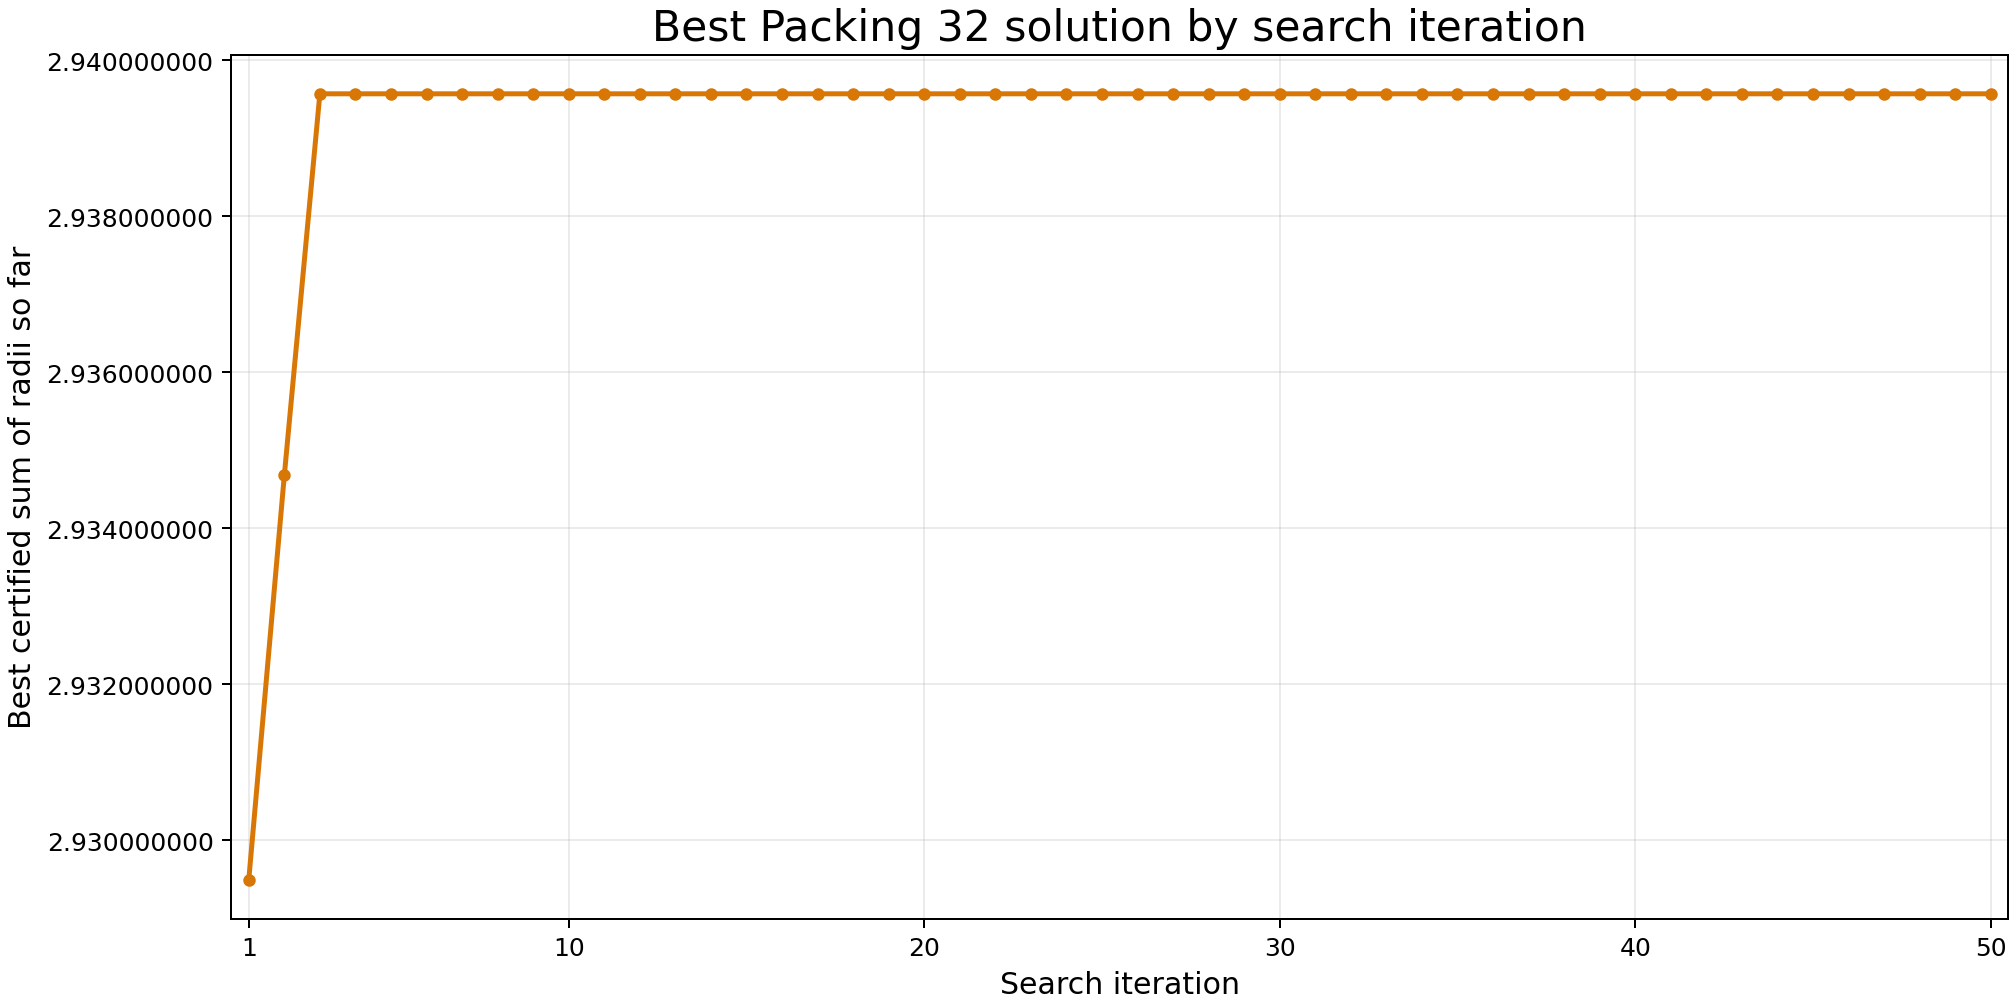
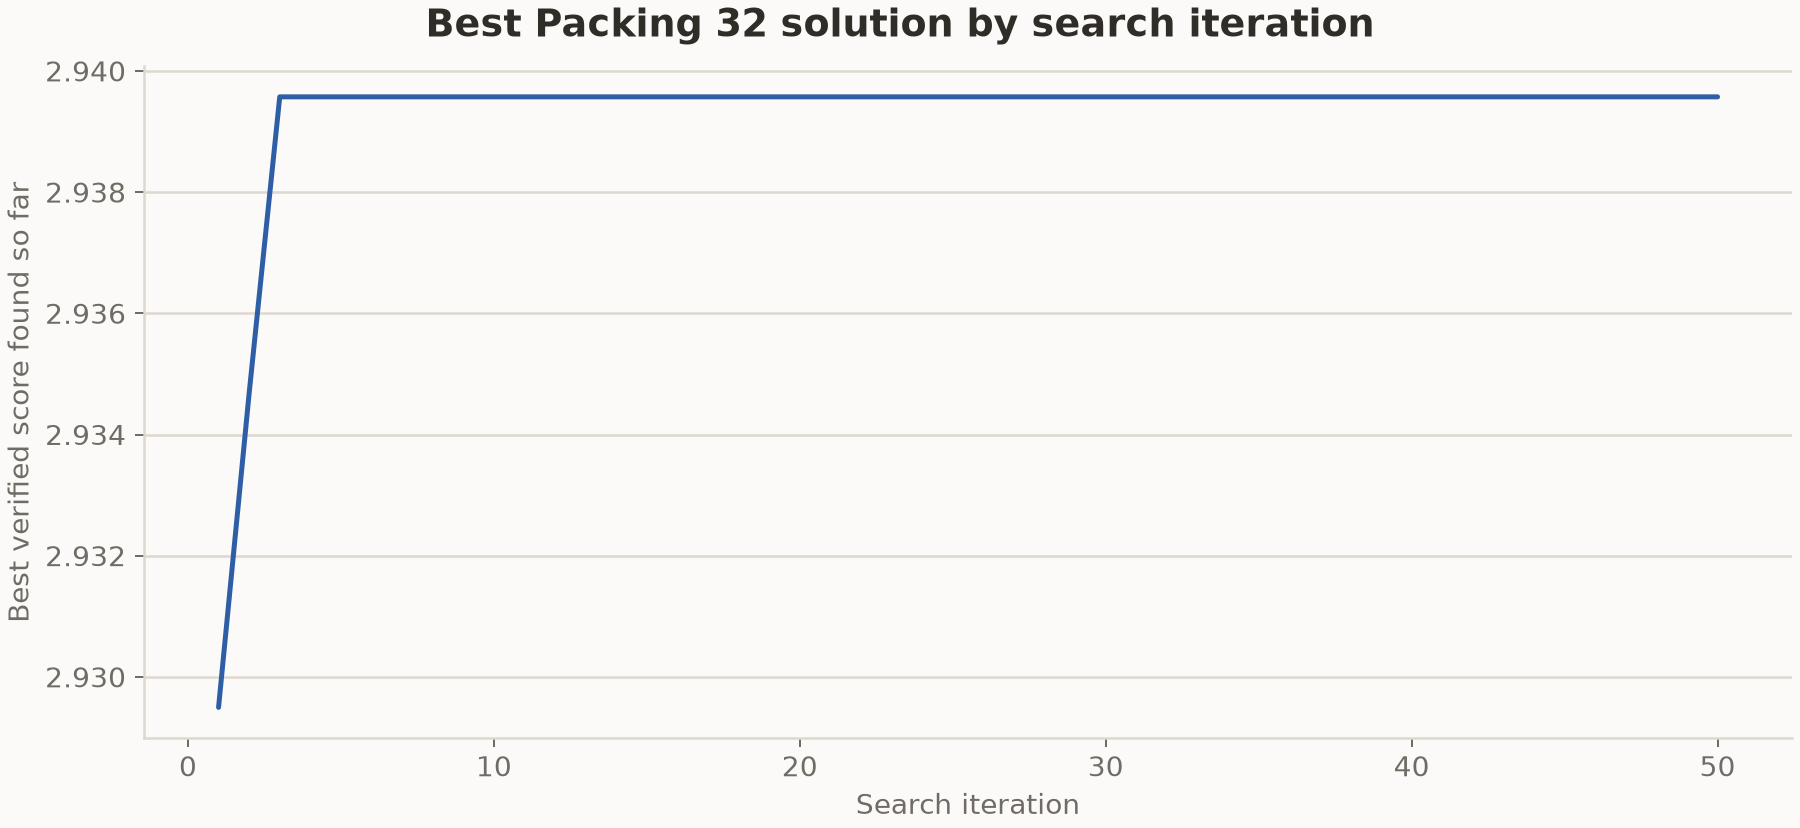
results: one figure style, shared with the docs site
Every stored curve across the tttd, sao, and openclawrl results now uses one
matplotlib style drawn from the docs theme: the card surface (#fbfaf8, where
the site puts its diagrams), the warm ink/muted/border neutrals, hairline
y-grid without top and right spines, and the brand red / blue / green series
order (chroma raised from the site's syntax inks until the palette passes a
CVD and contrast validation). Dense lines drop their per-point markers, and
reference lines (base rate, sessions-to-adaptation) are muted dashes.

The style lives in the two in-repo plotting scripts (the tttd formal dir's
plot_results.py, which now also draws the combined and per-task best-solution
histories, and openclawrl's learning_curve.py); the sao and erdos figures are
replotted from their stored or archived data.

recipes/sao results also drop smoke-2026-08-30/: nothing referenced it, and
the README already positions the example itself as the functional smoke.

Changed region(s): [[0.0, 0.0, 1.0, 0.9662], [0.4667, 0.9662, 0.6222, 0.9964]]

diff --git a/recipes/tttd/examples/tttd/results/formal-8x64-v3-packing/plot_results.py b/recipes/tttd/examples/tttd/results/formal-8x64-v3-packing/plot_results.py
@@ -9,13 +9,47 @@ import math
 from pathlib import Path
 
 import matplotlib.pyplot as plt
+from matplotlib.colors import LinearSegmentedColormap
 from matplotlib.patches import Circle, Rectangle
 
-
 ROOT = Path(__file__).resolve().parent
-COLORS = {"packing26": "#2563a6", "packing32": "#d97706"}
-LABELS = {"packing26": "Packing 26", "packing32": "Packing 32"}
 TOLERANCE = 1e-12
+
+# Figure style shared with the docs site (paper surface, warm ink, hairline
+# grid, and the site's brand red / blue / green as the fixed series order).
+PAPER = "#fbfaf8"
+INK = "#302c28"
+MUTED = "#716b65"
+HAIRLINE = "#ddd8d0"
+BRAND, BLUE, GREEN = "#a03729", "#2e5fa6", "#3f7d44"
+STYLE = {
+    "figure.facecolor": PAPER,
+    "savefig.facecolor": PAPER,
+    "axes.facecolor": PAPER,
+    "text.color": INK,
+    "axes.titlecolor": INK,
+    "axes.titleweight": "normal",
+    "axes.labelcolor": MUTED,
+    "xtick.color": MUTED,
+    "ytick.color": MUTED,
+    "axes.edgecolor": HAIRLINE,
+    "axes.linewidth": 1.0,
+    "axes.spines.top": False,
+    "axes.spines.right": False,
+    "axes.grid": True,
+    "axes.grid.axis": "y",
+    "grid.color": HAIRLINE,
+    "grid.linewidth": 1.0,
+    "axes.axisbelow": True,
+    "lines.linewidth": 2.0,
+    "lines.solid_capstyle": "round",
+    "legend.frameon": False,
+    "legend.labelcolor": INK,
+    "font.size": 11,
+}
+COLORS = {"packing26": BRAND, "packing32": BLUE}
+LABELS = {"packing26": "Packing 26", "packing32": "Packing 32"}
+RADIUS_RAMP = LinearSegmentedColormap.from_list("brand", ["#f2e0dc", BRAND])
 
 
 def read_numeric_csv(path: Path):
@@ -62,29 +96,30 @@ def plot_packings():
     figure, axes = plt.subplots(1, 2, figsize=(11.2, 5.6), constrained_layout=True)
     for index, task in enumerate(("packing26", "packing32")):
         axis = axes[index]
+        axis.grid(False)
         circles = read_circles(task)
         radii = [row["radius"] for row in circles]
         minimum, maximum = min(radii), max(radii)
         scale = maximum - minimum or 1
         for row in circles:
-            shade = 0.18 + 0.64 * (row["radius"] - minimum) / scale
+            shade = 0.15 + 0.75 * (row["radius"] - minimum) / scale
             axis.add_patch(
                 Circle(
                     (row["x"], row["y"]),
                     row["radius"],
-                    facecolor=plt.cm.Blues(shade),
-                    edgecolor="#16324f",
-                    linewidth=0.7,
+                    facecolor=RADIUS_RAMP(shade),
+                    edgecolor=PAPER,
+                    linewidth=1.0,
                 )
             )
-        axis.add_patch(Rectangle((0, 0), 1, 1, fill=False, edgecolor="#202020", linewidth=1.2))
+        axis.add_patch(Rectangle((0, 0), 1, 1, fill=False, edgecolor=MUTED, linewidth=1.2))
         axis.set(xlim=(-0.02, 1.02), ylim=(-0.02, 1.02), aspect="equal")
         axis.set_xticks([0, 0.5, 1])
         axis.set_yticks([0, 0.5, 1])
         axis.set_title(f"{LABELS[task]}\ncertified sum = {certified_score(task):.12f}")
         axis.set_xlabel("x")
         axis.set_ylabel("y")
-    figure.suptitle("Verified circle-packing configurations", fontsize=15)
+    figure.suptitle("Verified circle-packing configurations", fontsize=15, fontweight="bold")
     figure.savefig(ROOT / "packing_configurations.png", dpi=180)
     plt.close(figure)
 
@@ -116,23 +151,57 @@ def plot_wandb_metrics():
                 [row["reef/step"] for row in history],
                 [transform(row[metric]) for row in history],
                 color=COLORS[task],
-                linewidth=1.5,
-                marker="o",
-                markersize=2.5,
                 label=LABELS[task],
             )
         axis.set_title(title)
         axis.set_xlabel("Committed training step")
-        axis.grid(alpha=0.25)
-    axes[0, 0].legend(frameon=False)
-    figure.suptitle("REEF-TTT training metrics exported from W&B", fontsize=15)
+    axes[0, 0].legend()
+    figure.suptitle("REEF-TTT training metrics exported from W&B", fontsize=15, fontweight="bold")
     figure.savefig(ROOT / "wandb_training_metrics.png", dpi=180)
     plt.close(figure)
 
 
+def plot_best_solution_history():
+    rows = read_numeric_csv(ROOT / "best_solution_history.csv")
+    figure, axes = plt.subplots(1, 2, figsize=(12, 5.2), constrained_layout=True)
+    for axis, task in zip(axes, ("packing26", "packing32"), strict=False):
+        history = sorted((row for row in rows if row["task"] == task), key=lambda row: row["iteration"])
+        if not history:
+            raise RuntimeError(f"best_solution_history.csv has no rows for {task}")
+        axis.plot(
+            [row["iteration"] for row in history],
+            [row["best_score_so_far"] for row in history],
+            color=COLORS[task],
+        )
+        axis.set_title(LABELS[task])
+        axis.set_xlabel("Search iteration")
+        axis.set_ylabel("Best verified score found so far")
+        axis.ticklabel_format(axis="y", useOffset=False, style="plain")
+    figure.suptitle("Best circle-packing solution by search iteration", fontsize=15, fontweight="bold")
+    figure.savefig(ROOT / "best_solution_history.png", dpi=180)
+    plt.close(figure)
+
+    for task in ("packing26", "packing32"):
+        history = sorted((row for row in rows if row["task"] == task), key=lambda row: row["iteration"])
+        figure, axis = plt.subplots(figsize=(10, 4.6), constrained_layout=True)
+        axis.plot(
+            [row["iteration"] for row in history],
+            [row["best_score_so_far"] for row in history],
+            color=COLORS[task],
+        )
+        axis.set_xlabel("Search iteration")
+        axis.set_ylabel("Best verified score found so far")
+        axis.ticklabel_format(axis="y", useOffset=False, style="plain")
+        figure.suptitle(f"Best {LABELS[task]} solution by search iteration", fontsize=15, fontweight="bold")
+        figure.savefig(ROOT / task / "best_solution_history.png", dpi=180)
+        plt.close(figure)
+
+
 def main():
+    plt.rcParams.update(STYLE)
     plot_packings()
     plot_wandb_metrics()
+    plot_best_solution_history()
 
 
 if __name__ == "__main__":

diff --git a/recipes/openclawrl/examples/openclawrl/results/learning_curve.py b/recipes/openclawrl/examples/openclawrl/results/learning_curve.py
@@ -62,10 +62,38 @@ COLUMNS = (
     "accept_cum",
     *(f"{key}_rate_{WINDOW}" for key in RATE_KEYS),
 )
-BLUE = "#2563a6"
-ORANGE = "#d97706"
-PURPLE = "#6b46c1"
-GREEN = "#2f855a"
+# Figure style shared with the docs site (paper surface, warm ink, hairline
+# grid, and the site's brand red / blue / green as the fixed series order).
+PAPER = "#fbfaf8"
+INK = "#302c28"
+MUTED = "#716b65"
+HAIRLINE = "#ddd8d0"
+BRAND, BLUE, GREEN = "#a03729", "#2e5fa6", "#3f7d44"
+STYLE = {
+    "figure.facecolor": PAPER,
+    "savefig.facecolor": PAPER,
+    "axes.facecolor": PAPER,
+    "text.color": INK,
+    "axes.titlecolor": INK,
+    "axes.titleweight": "normal",
+    "axes.labelcolor": MUTED,
+    "xtick.color": MUTED,
+    "ytick.color": MUTED,
+    "axes.edgecolor": HAIRLINE,
+    "axes.linewidth": 1.0,
+    "axes.spines.top": False,
+    "axes.spines.right": False,
+    "axes.grid": True,
+    "axes.grid.axis": "y",
+    "grid.color": HAIRLINE,
+    "grid.linewidth": 1.0,
+    "axes.axisbelow": True,
+    "lines.linewidth": 2.0,
+    "lines.solid_capstyle": "round",
+    "legend.frameon": False,
+    "legend.labelcolor": INK,
+    "font.size": 11,
+}
 TITLE = "OpenClaw-RL training over the GSM8K homework stream"
 
 
@@ -158,6 +186,7 @@ def sessions_to_adaptation(rows: list[dict]) -> int | None:
 def plot(rows: list[dict], path: Path, max_session: int | None = None) -> None:
     import matplotlib.pyplot as plt
 
+    plt.rcParams.update(STYLE)
     adaptation = sessions_to_adaptation(rows)
     if max_session is not None:
         rows = [row for row in rows if row["session"] <= max_session]
@@ -166,29 +195,20 @@ def plot(rows: list[dict], path: Path, max_session: int | None = None) -> None:
     top.plot(
         sessions,
         [row["accept_cum"] for row in rows],
-        color=BLUE,
-        linewidth=1.5,
-        marker="o",
-        markersize=2.5,
+        color=BRAND,
         label="accumulated accepts (eval/accept_cum)",
     )
     top.set_ylabel("Accepted sessions")
     bottom.plot(
         sessions,
         [row[f"bold_rate_{WINDOW}"] for row in rows],
-        color=ORANGE,
-        linewidth=1.5,
-        marker="o",
-        markersize=2.5,
+        color=BLUE,
         label=f"bold rate, {WINDOW}-session window (eval/bold_rate_{WINDOW})",
     )
     bottom.plot(
         sessions,
         [row[f"list_rate_{WINDOW}"] for row in rows],
-        color=PURPLE,
-        linewidth=1.5,
-        marker="o",
-        markersize=2.5,
+        color=GREEN,
         label=f"list rate, {WINDOW}-session window (eval/list_rate_{WINDOW})",
     )
     bottom.set_ylim(-0.02, 1.02)
@@ -198,14 +218,13 @@ def plot(rows: list[dict], path: Path, max_session: int | None = None) -> None:
         if adaptation is not None and adaptation <= sessions[-1]:
             axis.axvline(
                 adaptation,
-                color=GREEN,
+                color=MUTED,
                 linestyle="--",
-                linewidth=1.2,
+                linewidth=1.4,
                 label=f"sessions-to-adaptation = {adaptation}" if axis is top else None,
             )
-        axis.grid(alpha=0.25)
         axis.legend(frameon=False, loc="upper left" if axis is top else "upper right")
-    figure.suptitle(TITLE, fontsize=15)
+    figure.suptitle(TITLE, fontsize=15, fontweight="bold")
     path.parent.mkdir(parents=True, exist_ok=True)
     figure.savefig(path, dpi=180)
     plt.close(figure)
